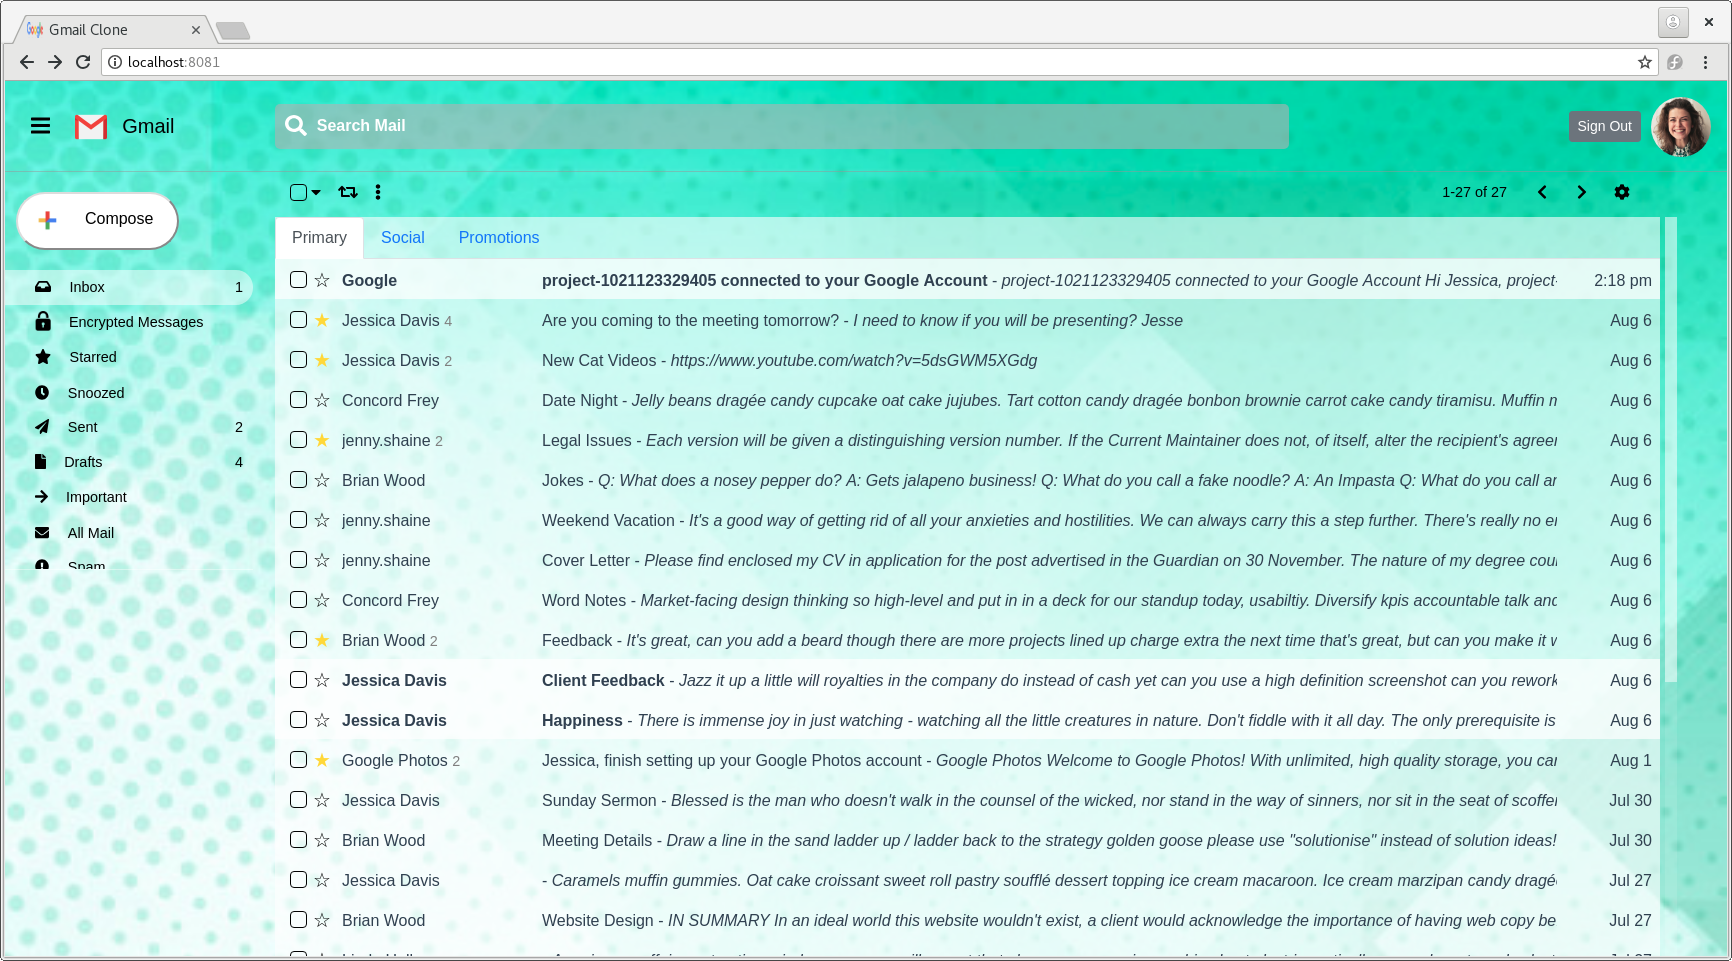
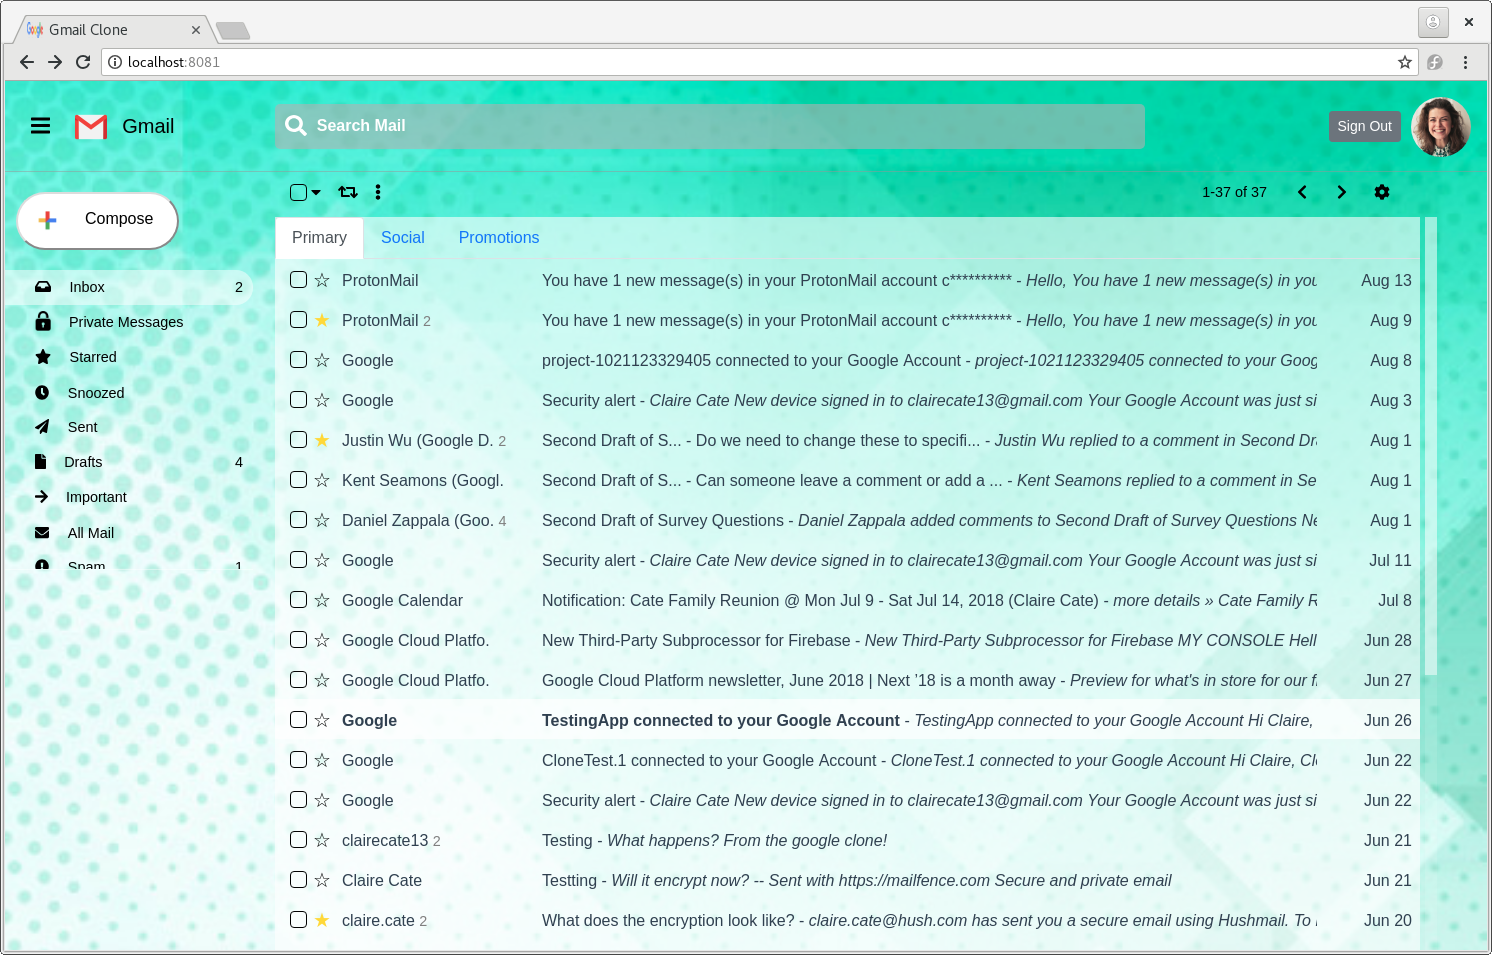
Screen 2

Changed region(s): [[0.0, 0.0, 1.0, 1.0]]

diff --git a/gmail-client/src/components/UtilityBar.vue b/gmail-client/src/components/UtilityBar.vue
@@ -219,8 +219,8 @@
   right: 17px;
   left: 5px;
   height: 70px;
-  /* display: flex; */
-  display: none;
+  display: flex;
+  /* display: none; */
   flex-direction: row;
   margin-left: 270px;
 }
@@ -292,7 +292,7 @@ img {
   border-bottom: 0px;
   background-color: rgba(255, 255, 255, 0.0);
   width: 100%;
-  /* height: 110px; */
+  height: 110px;
 } 
 .iconDiv {
   position: relative;
@@ -300,7 +300,7 @@ img {
   width: auto;
   height: 40px;
   margin-left: 270px;
-  /* visibility: hidden; */
+  visibility: hidden;
 }
 .flexIcons {
   position: relative;

diff --git a/gmail-client/src/components/MessageSidebar.vue b/gmail-client/src/components/MessageSidebar.vue
@@ -29,7 +29,7 @@
           </div>
 
           <div class="EM">
-            Encrypted Messages
+            Private Messages
           </div>
 
         </div>
@@ -242,8 +242,8 @@
 
 .encryptSide {
   width: 262px;
-  display: none;
-  /* display: flex; */
+  /* display: none; */
+  display: flex;
   flex-direction: column;
   margin-top: 116px;
 }
